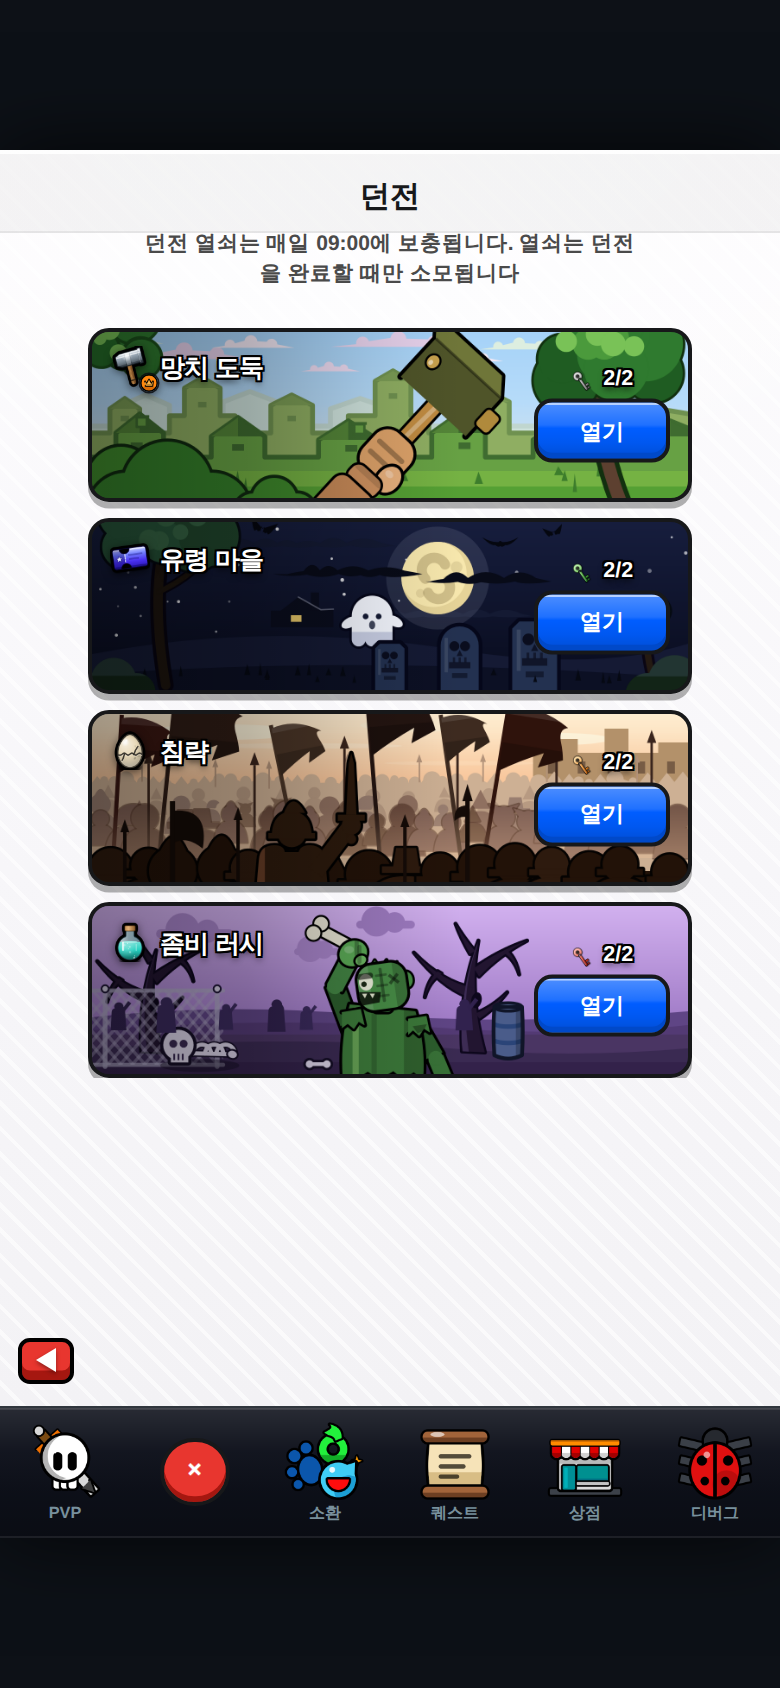
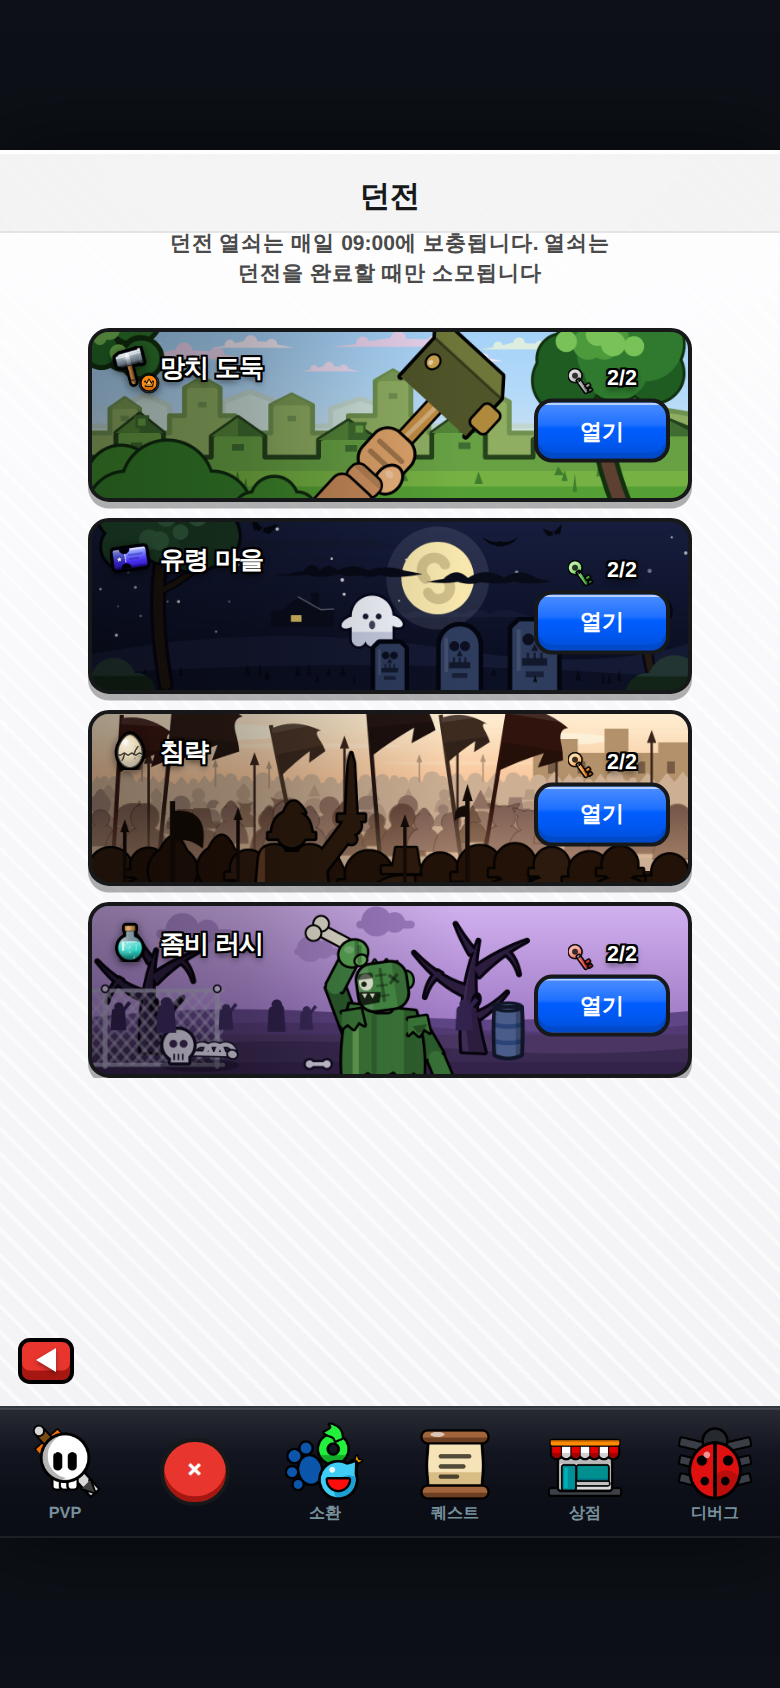
던전 행 R7 비평(73/71) 잉크 통일 패스 — 2인 공통 최대 결함('중경 무선 = 다른 아트팀') 해소: 무선으로 읽히던 실인은 채움·키라인 동명도(묘비 남색 위 남색·고목 근흑 위 근흑)와 무선 림라이트 혹의 실루엣 절단 → 채움 반 단 상향+키라인 증량·근흑화(1행 나무/수풀/마을, 2행 묘비/양측 나무, 4행 고목), 열쇠 만화 비례(고리·대·이 두툼+키라인 0.042, 배너 아이콘 1.3→1.65em), 달 표면 얼룩 삭제(플랫 원+헤일로만), 3행 원경 반층 투구 변주, 금 페룰 머리 실루엣 통합, 안내문 keep-

diff --git a/web/js/icongen.js b/web/js/icongen.js
@@ -941,13 +941,13 @@ const IconGen = {
             const silver = () => G._lin(ctx, 0, S * 0.2, 0, S * 0.85, stops);
             ctx.save();
             ctx.translate(S / 2, S / 2); ctx.rotate(-0.62); ctx.translate(-S / 2, -S / 2);
-            const bx = S * 0.30, by = S * 0.26, bR = S * 0.155;   // 손잡이 고리
+            const bx = S * 0.30, by = S * 0.26, bR = S * 0.19;    // 손잡이 고리 — R7 2인 공통 '가는 사실 열쇠': 만화 비례로 확대
             const path = () => {
                 ctx.moveTo(bx + bR, by);
                 ctx.arc(bx, by, bR, 0, Math.PI * 2);
-                G._rrSub(ctx, bx - S * 0.045, by + bR * 0.6, S * 0.09, S * 0.50, S * 0.03);   // 대
-                G._rrSub(ctx, bx + S * 0.04, by + bR * 0.6 + S * 0.30, S * 0.13, S * 0.075, S * 0.02); // 이 1
-                G._rrSub(ctx, bx + S * 0.04, by + bR * 0.6 + S * 0.42, S * 0.10, S * 0.07, S * 0.02);  // 이 2
+                G._rrSub(ctx, bx - S * 0.062, by + bR * 0.6, S * 0.124, S * 0.46, S * 0.04);   // 대(두툼)
+                G._rrSub(ctx, bx + S * 0.05, by + bR * 0.6 + S * 0.26, S * 0.15, S * 0.10, S * 0.025); // 이 1(두툼)
+                G._rrSub(ctx, bx + S * 0.05, by + bR * 0.6 + S * 0.40, S * 0.12, S * 0.09, S * 0.025);  // 이 2(두툼)
             };
             ctx.save();
             ctx.globalAlpha = 0.35; ctx.fillStyle = '#000';
@@ -965,8 +965,8 @@ const IconGen = {
             ctx.fillStyle = 'rgba(20,20,20,.85)';
             ctx.fill();
             ctx.beginPath(); path();
-            ctx.lineWidth = S * 0.022;
-            ctx.strokeStyle = 'rgba(0,0,0,.88)';
+            ctx.lineWidth = S * 0.042;
+            ctx.strokeStyle = 'rgba(0,0,0,.92)';
             ctx.stroke();
             // 대 위쪽 하이라이트
             ctx.beginPath();
@@ -3750,7 +3750,7 @@ IconGen._genderSym = function (ctx, S, female) {
         [0.57, 0.74], [0.57, 0.60], [0.615, 0.49], [0.66, 0.60], [0.66, 0.74],
         [0.74, 0.74], [0.74, 0.64], [0.79, 0.53], [0.84, 0.64], [0.84, 0.74],
         [0.92, 0.74], [0.92, 0.62], [0.97, 0.53], [1.02, 0.60]],
-            '#67a144', '#3f6c30');
+            '#67a144', '#24421c');
         /* 근경 열 지붕/벽 분리(3차 재채점 교집합 ⓒ — 초록 단색 폴리라인은 '산울타리'로 읽힌다):
            박공마다 지붕 삼각을 어두운 초록으로 채워 벽(연초록)·지붕(진초록)이 갈리면 건물이 된다.
            ⚠ 원본 실측이 '초록 성벽'이라 초록 자체는 유지(사용자 지시 우선 원칙) — 색상군은 두고
@@ -3797,13 +3797,11 @@ IconGen._genderSym = function (ctx, S, female) {
                 blobs.push([W * 0.86 + H * (-0.30 + R() * 0.60), H * (-0.08 + R() * 0.34), H * (0.13 + R() * 0.09), '#2f7a2f']);
             for (let i = 0; i < 5; i++)                                   // 중간층(윗부분 밝게)
                 blobs.push([W * 0.86 + H * (-0.28 + R() * 0.48), H * (-0.10 + R() * 0.20), H * (0.07 + R() * 0.05), '#4b9a3c']);
-            ctx.strokeStyle = '#12300f'; ctx.lineWidth = H * 0.028;       // 캐노피 합집합 키라인(R2 공통 — 채움이 안쪽 획을 덮는다)
+            for (let i = 0; i < 7; i++)                                   // 연두 림라이트 혹 — R7 2인 공통 '나무 무선': 무선으로 맨 위에 얹으면 실루엣 키라인이 끊긴다 → 스트로크 세트에 포함
+                blobs.push([W * 0.86 + H * (-0.30 + R() * 0.52), H * (-0.10 + R() * 0.26), H * (0.045 + R() * 0.035), '#79c257']);
+            ctx.strokeStyle = '#12300f'; ctx.lineWidth = H * 0.032;       // 캐노피 합집합 키라인(R2 공통 — 채움이 안쪽 획을 덮는다)
             blobs.forEach(([x, y, r]) => { ctx.beginPath(); ctx.arc(x, y, r, 0, Math.PI * 2); ctx.stroke(); });
             blobs.forEach(([x, y, r, c]) => fill(ctx, c, () => ctx.arc(x, y, r, 0, Math.PI * 2)));
-            for (let i = 0; i < 7; i++) {                                 // 연두 림라이트 혹(키라인 없이 맨 위)
-                const x = W * 0.86 + H * (-0.30 + R() * 0.52), y = H * (-0.10 + R() * 0.26), r = H * (0.045 + R() * 0.035);
-                fill(ctx, '#79c257', () => ctx.arc(x, y, r, 0, Math.PI * 2));
-            }
         })();
         // 모서리 수풀 — 좌하단(키라인 있는 덤불 덩어리)
         const bush = (bx, by, s, fc, oc) => {
@@ -3829,7 +3827,7 @@ IconGen._genderSym = function (ctx, S, female) {
             const x = W * (-0.015 + R() * 0.10), y = H * (-0.12 + R() * 0.34), r = H * (0.10 + R() * 0.08);
             ctx.beginPath(); ctx.arc(x, y, r, 0, Math.PI * 2);
             ctx.fillStyle = i % 2 ? '#2f7a2f' : '#256c28'; ctx.fill();
-            ctx.strokeStyle = '#1c4f1c'; ctx.lineWidth = H * 0.016; ctx.stroke();
+            ctx.strokeStyle = '#12300f'; ctx.lineWidth = H * 0.028; ctx.stroke();
         }
         for (let i = 0; i < 3; i++) {
             const x = W * (0.005 + R() * 0.06), y = H * (-0.06 + R() * 0.22), r = H * (0.035 + R() * 0.025);
@@ -3900,7 +3898,7 @@ IconGen._genderSym = function (ctx, S, female) {
         on(ctx, bar(ctx, S, 0.115, -0.255, 0.115, 0.255, 0.016), 'rgba(0,0,0,.40)');      // 정면-윗면 하드 에지
         ink(ctx, S, ell(ctx, S, 0.005, -0.175, 0.040, 0.034), '#c9a24e', 0.024);          // 쐐기 못(정면)
         on(ctx, ell(ctx, S, -0.007, -0.183, 0.016, 0.013), 'rgba(255,255,255,.55)');      // 못 하이라이트
-        ink(ctx, S, rrect(ctx, S, -0.095, 0.245, 0.120, 0.090, 0.022), '#b08a3c', 0.026);   // 자루 물림 금 테(R6 A — 원본 실측 '올리브+금'의 금 단서)
+        ink(ctx, S, rrect(ctx, S, -0.110, 0.215, 0.150, 0.110, 0.026), '#b08a3c', 0.030);   // 자루 물림 금 페룰 — 머리 하변(0.255)에 물려 실루엣과 통합(R7 A '별개 사각' 해소)
         ctx.restore();
     };
 
@@ -3951,9 +3949,7 @@ IconGen._genderSym = function (ctx, S, female) {
         ctx.save();
         ctx.beginPath(); ctx.arc(mx, my, mr, 0, Math.PI * 2); ctx.clip();
         // 우하단 크레센트 음영 먼저(비평가 4차 '매끈한 원') — 소용돌이는 그 위에 얹는다
-        ctx.fillStyle = 'rgba(150,120,60,.18)'; ctx.fillRect(mx - mr, my - mr, mr * 2, mr * 2);
-        ctx.beginPath(); ctx.arc(mx - mr * 0.12, my - mr * 0.12, mr * 0.92, 0, Math.PI * 2);
-        ctx.fillStyle = '#f7e7ad'; ctx.fill();
+        // (크레센트 음영은 R7 에서 삭제 — A R4 '표면 얼룩': 원본은 플랫 원 + 헤일로 링뿐)
         /* 소용돌이 무늬(원본 달의 'S' 마킹) — 3차 A '숫자 6으로 읽힘': 원본 사양이라 각인 자체는
            유지하되(채택 금지 목록 — 크레이터 전면 교체 아님), 한 획 갈고리 → **위/아래 반원 두 획**
            으로 갈라 진짜 S 리듬으로 재조형. 폐곡선 느낌이 없어져 숫자로 안 읽힌다.
@@ -3964,8 +3960,6 @@ IconGen._genderSym = function (ctx, S, female) {
         ctx.beginPath(); ctx.arc(mx + mr * 0.02, my + mr * 0.26, mr * 0.32, Math.PI * 1.80, Math.PI * 0.85);   // 아랫 반원(오른쪽으로 열림)
         ctx.stroke();
         ctx.lineCap = 'butt';
-        fill(ctx, 'rgba(120,100,55,.16)', () => ctx.arc(mx + mr * 0.52, my - mr * 0.30, mr * 0.16, 0, Math.PI * 2));   // 크레이터(보조)
-        fill(ctx, 'rgba(120,100,55,.14)', () => ctx.arc(mx - mr * 0.48, my + mr * 0.42, mr * 0.12, 0, Math.PI * 2));
         ctx.restore();
         /* 찢긴 검은 구름 줄 — 원본의 그 가로 스트릭. 달 **앞**을 지나는 한 줄이 핵심이라 달 뒤에
            깔면 의미가 없다(그래서 달 다음에 그린다). 좌반부 평균 휘도 하한(probe-dungeon-title-ink,
@@ -4083,8 +4077,8 @@ IconGen._genderSym = function (ctx, S, female) {
             const p = sq
                 ? () => { ctx.moveTo(x, y + h); ctx.lineTo(x, y + w * 0.28); ctx.lineTo(x + w * 0.16, y + w * 0.12); ctx.lineTo(x + w * 0.84, y + w * 0.12); ctx.lineTo(x + w, y + w * 0.28); ctx.lineTo(x + w, y + h); ctx.closePath(); }
                 : () => { ctx.moveTo(x, y + h); ctx.lineTo(x, y + w * 0.5); ctx.arc(x + w * 0.5, y + w * 0.5, w * 0.5, Math.PI, 0); ctx.lineTo(x + w, y + h); ctx.closePath(); };
-            ctx.beginPath(); p(); ctx.strokeStyle = '#05071a'; ctx.lineWidth = H * 0.042; ctx.stroke();   // R2 공통 '전경 키라인 비일관' — 굵은 근흑 키라인(스트로크→채움 순서로 바깥만 남긴다)
-            ctx.beginPath(); p(); ctx.fillStyle = '#233150'; ctx.fill();   // R5 A·B 재공통 '묘비 스티커처럼 팝' — 한 단 더 침강(각인 자체는 원본 실측 사양: 해골+RIP 유지)
+            ctx.beginPath(); p(); ctx.strokeStyle = '#03050f'; ctx.lineWidth = H * 0.052; ctx.stroke();   // R2 공통 '전경 키라인 비일관' — 굵은 근흑 키라인(스트로크→채움 순서로 바깥만 남긴다)
+            ctx.beginPath(); p(); ctx.fillStyle = '#2e3c5e'; ctx.fill();   // R7: 채움을 반 단 올려 근흑 키라인이 갈리게(무선 오독 해소 — '밝다' 지적과의 균형점)   // R5 A·B 재공통 '묘비 스티커처럼 팝' — 한 단 더 침강(각인 자체는 원본 실측 사양: 해골+RIP 유지)
             fill(ctx, 'rgba(8,10,24,.9)', () => ctx.arc(x + w * 0.36, y + w * 0.52, w * 0.13, 0, Math.PI * 2));             // 해골 각인(두 눈 + 코)
             fill(ctx, 'rgba(8,10,24,.9)', () => ctx.arc(x + w * 0.64, y + w * 0.52, w * 0.13, 0, Math.PI * 2));
             fill(ctx, 'rgba(8,10,24,.75)', () => { ctx.moveTo(x + w * 0.5, y + w * 0.62); ctx.lineTo(x + w * 0.42, y + w * 0.78); ctx.lineTo(x + w * 0.58, y + w * 0.78); });
@@ -4123,8 +4117,8 @@ IconGen._genderSym = function (ctx, S, female) {
                 /* 병합 절충(두 스트림 비평가가 정반대 지적): 병렬 R '하늘과 값이 붙어 실루엣 소실 — 밝게'
                    vs 이쪽 R5 A '주간용 나무 — 어둡게'. A 의 실인은 갈색 줄기였고(근흑으로 침강 완료),
                    실루엣 소실은 실측 함정(7차)이라 캐노피는 병렬 값에서 반 스텝만 내려 절충. */
-                blobs.push([x + H * (-0.22 + R() * 0.50), H * (-0.08 + R() * 0.30), H * (0.12 + R() * 0.08), i % 2 ? '#20452c' : '#265238']);
-            ctx.strokeStyle = '#060b12'; ctx.lineWidth = H * 0.028;        // 합집합 키라인(채움이 안쪽 획을 덮는다 — 덤불 화법)
+                blobs.push([x + H * (-0.22 + R() * 0.50), H * (-0.08 + R() * 0.30), H * (0.12 + R() * 0.08), i % 2 ? '#1b3a24' : '#20452c']);
+            ctx.strokeStyle = '#04080e'; ctx.lineWidth = H * 0.036;        // 합집합 키라인(채움이 안쪽 획을 덮는다 — 덤불 화법)
             blobs.forEach(([lx, ly, r]) => { ctx.beginPath(); ctx.arc(lx, ly, r, 0, Math.PI * 2); ctx.stroke(); });
             blobs.forEach(([lx, ly, r, c]) => fill(ctx, c, () => ctx.arc(lx, ly, r, 0, Math.PI * 2)));
             for (let i = 0; i < 5; i++) {                                  // 달빛 림 혹
@@ -4149,7 +4143,7 @@ IconGen._genderSym = function (ctx, S, female) {
             const blobs = [];
             for (let i = 0; i < 5; i++)                                    // 작은 캐노피(좌측 나무와 같은 어두운 초록 계열)
                 blobs.push([x + H * (-0.16 + R() * 0.24), H * (0.525 + R() * 0.07), H * (0.05 + R() * 0.032), i % 2 ? '#16301f' : '#1c3a28']);
-            ctx.strokeStyle = '#060b12'; ctx.lineWidth = H * 0.024;
+            ctx.strokeStyle = '#04080e'; ctx.lineWidth = H * 0.032;
             blobs.forEach(([lx, ly, r]) => { ctx.beginPath(); ctx.arc(lx, ly, r, 0, Math.PI * 2); ctx.stroke(); });
             blobs.forEach(([lx, ly, r, c]) => fill(ctx, c, () => ctx.arc(lx, ly, r, 0, Math.PI * 2)));
             fill(ctx, '#2a4f33', () => ctx.arc(x - H * 0.03, H * 0.525, H * 0.028, 0, Math.PI * 2));   // 달빛 림 혹 하나
@@ -4273,7 +4267,7 @@ IconGen._genderSym = function (ctx, S, female) {
             paths.forEach(p => fill(ctx, c, p));
         };
         for (let i = 0; i < 14; i++)                                       // 원경-중경 사이 반층 — 레이어 한 겹 더(비평가 5차)
-            figure(W * (i / 14 + 0.015 + R() * 0.03), H * (0.465 + R() * 0.04), 0.55 + R() * 0.25, '#b79a82', R() < 0.6 ? 0 : 1);
+            figure(W * (i / 14 + 0.015 + R() * 0.03), H * (0.465 + R() * 0.04), 0.55 + R() * 0.25, '#b79a82', [0, 1, 1, 4, 5, 0][(R() * 6) | 0]);   // R7 2인 공통 '균일 돔 반복': 원경 반층에도 투구 변주
         /* 중간 열 — 뒤(#cdb094)와 앞(#241612) 사이의 **명도 중간층**이라 밝은 모브 계열이어야
            대기원근 3단이 선다(비평가 4차 '단일 톤 플랫 매스'). 뿔 투구는 1/8 로 드물게. */
         /* 중경을 명도 2단으로 분리(2차 재채점 2인 공통 '동일 명도 블롭 뭉개짐'):
@@ -4483,7 +4477,7 @@ IconGen._genderSym = function (ctx, S, female) {
                세우고, 키라인은 스트로크→채움 2패스 합집합(덤불 화법)으로 통일한다. */
             /* R5 A '중간 명도 보라 나무 — 원본은 거의 검은 자주 실루엣': 파스텔 하늘 전환(R4)으로
                상대 명도가 떠서 한 단 침강 */
-            const c = '#221530', oc = '#0d071c', u = H * sc, B = H * 0.86;
+            const c = '#2c1d3e', oc = '#08040f', u = H * sc, B = H * 0.86;   // R7: 채움·키라인 명도 분리(둘 다 근흑이면 무선으로 읽힌다)
             const P = [];
             const tap = (x0, y0, cx2, cy2, x1, y1, w0) => {                // 테이퍼 가지: 양 변이 끝 한 점에서 만난다
                 const dx = x1 - x0, dy = y1 - y0, L = Math.hypot(dx, dy) || 1;
@@ -4503,7 +4497,7 @@ IconGen._genderSym = function (ctx, S, female) {
             tap(x - u * 0.17, B - u * 0.40, x - u * 0.225, B - u * 0.36, x - u * 0.245, B - u * 0.275, u * 0.024); // 처진 잔가지(왼 가지 중간에서 아래로)
             tap(x + u * 0.16, B - u * 0.505, x + u * 0.21, B - u * 0.47, x + u * 0.23, B - u * 0.39, u * 0.022);   // 처진 잔가지(오른 가지 중간에서 아래로)
             ctx.lineJoin = 'round';
-            P.forEach(p => { ctx.beginPath(); p(); ctx.strokeStyle = oc; ctx.lineWidth = H * 0.024; ctx.stroke(); });   // 합집합 키라인
+            P.forEach(p => { ctx.beginPath(); p(); ctx.strokeStyle = oc; ctx.lineWidth = H * 0.034; ctx.stroke(); });   // 합집합 키라인(R7 증량)
             P.forEach(p => { ctx.beginPath(); p(); ctx.fillStyle = c; ctx.fill(); });
             fill(ctx, oc, () => ctx.ellipse(x + u * 0.015, B - u * 0.26, u * 0.026, u * 0.040, 0.2, 0, Math.PI * 2));   // 옹이
             ctx.save();                                                    // 셀 라이트 한 단(R3 B ⓓ '전경 소품 2톤') — 줄기 왼 가장자리

diff --git a/web/css/style.css b/web/css/style.css
@@ -3359,6 +3359,7 @@ body {
 .sheet-sub {
     font-size: .8rem; font-weight: 700; line-height: 1.4; text-align: center;
     color: #4a4a4a; margin-bottom: .5rem; padding: 0 .6rem;
+    word-break: keep-all;   /* R7 A: "던전\n을" 어절 쪼개짐 방지 */
 }
 /* 원본(042251)의 설명문은 화면폭 ≈65%로 좁게 물려 두 줄이 균형 있게 접힌다. 클론은 거의 전폭이라
    마지막 글자 하나("다")만 둘째 줄로 떨어지는 고아 줄이 생기고, 그만큼 헤더가 낮아져 첫 카드가
@@ -3415,7 +3416,7 @@ body {
 }
 .modal-card.sheet .dg-banner .dg-keys { font-size: .82rem; }
 /* 열쇠 아이콘은 숫자보다 한 뼘 커야 훑을 때 잡힌다(비평가 7차 — 원본 열쇠가 더 굵고 크다) */
-.modal-card.sheet .dg-banner .dg-keys .ico { width: 1.3em; height: 1.3em; }
+.modal-card.sheet .dg-banner .dg-keys .ico { width: 1.65em; height: 1.65em; }   /* R7 비평가 2인 공통 '열쇠가 카운터 절반 크기' — 카운터와 동급 시각 무게로 */
 .modal-card.sheet .dg-banner .dg-lock { font-size: .72rem; font-weight: 700; color: #ffcdd2; }
 
 /* ---- 하단 시트 → 원본은 전체화면 흰 페이지 + 서브탭이 맨 아래 (UI-SPEC 8~16번) ---- */
